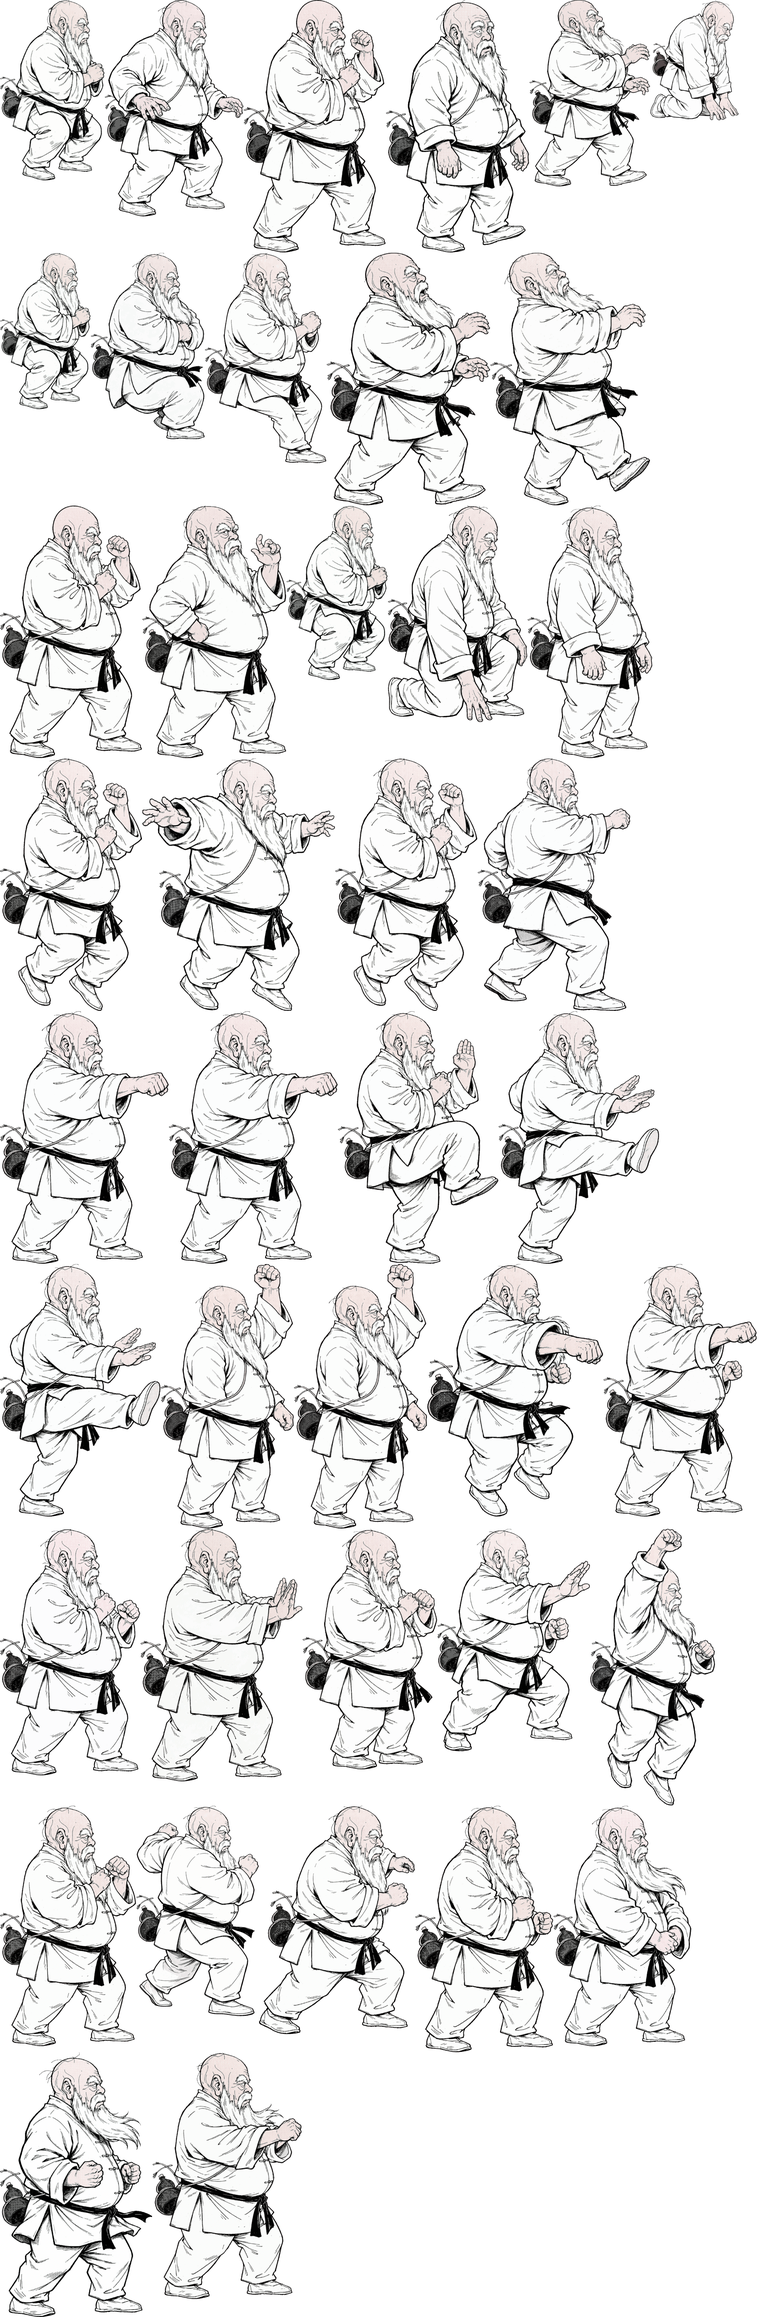
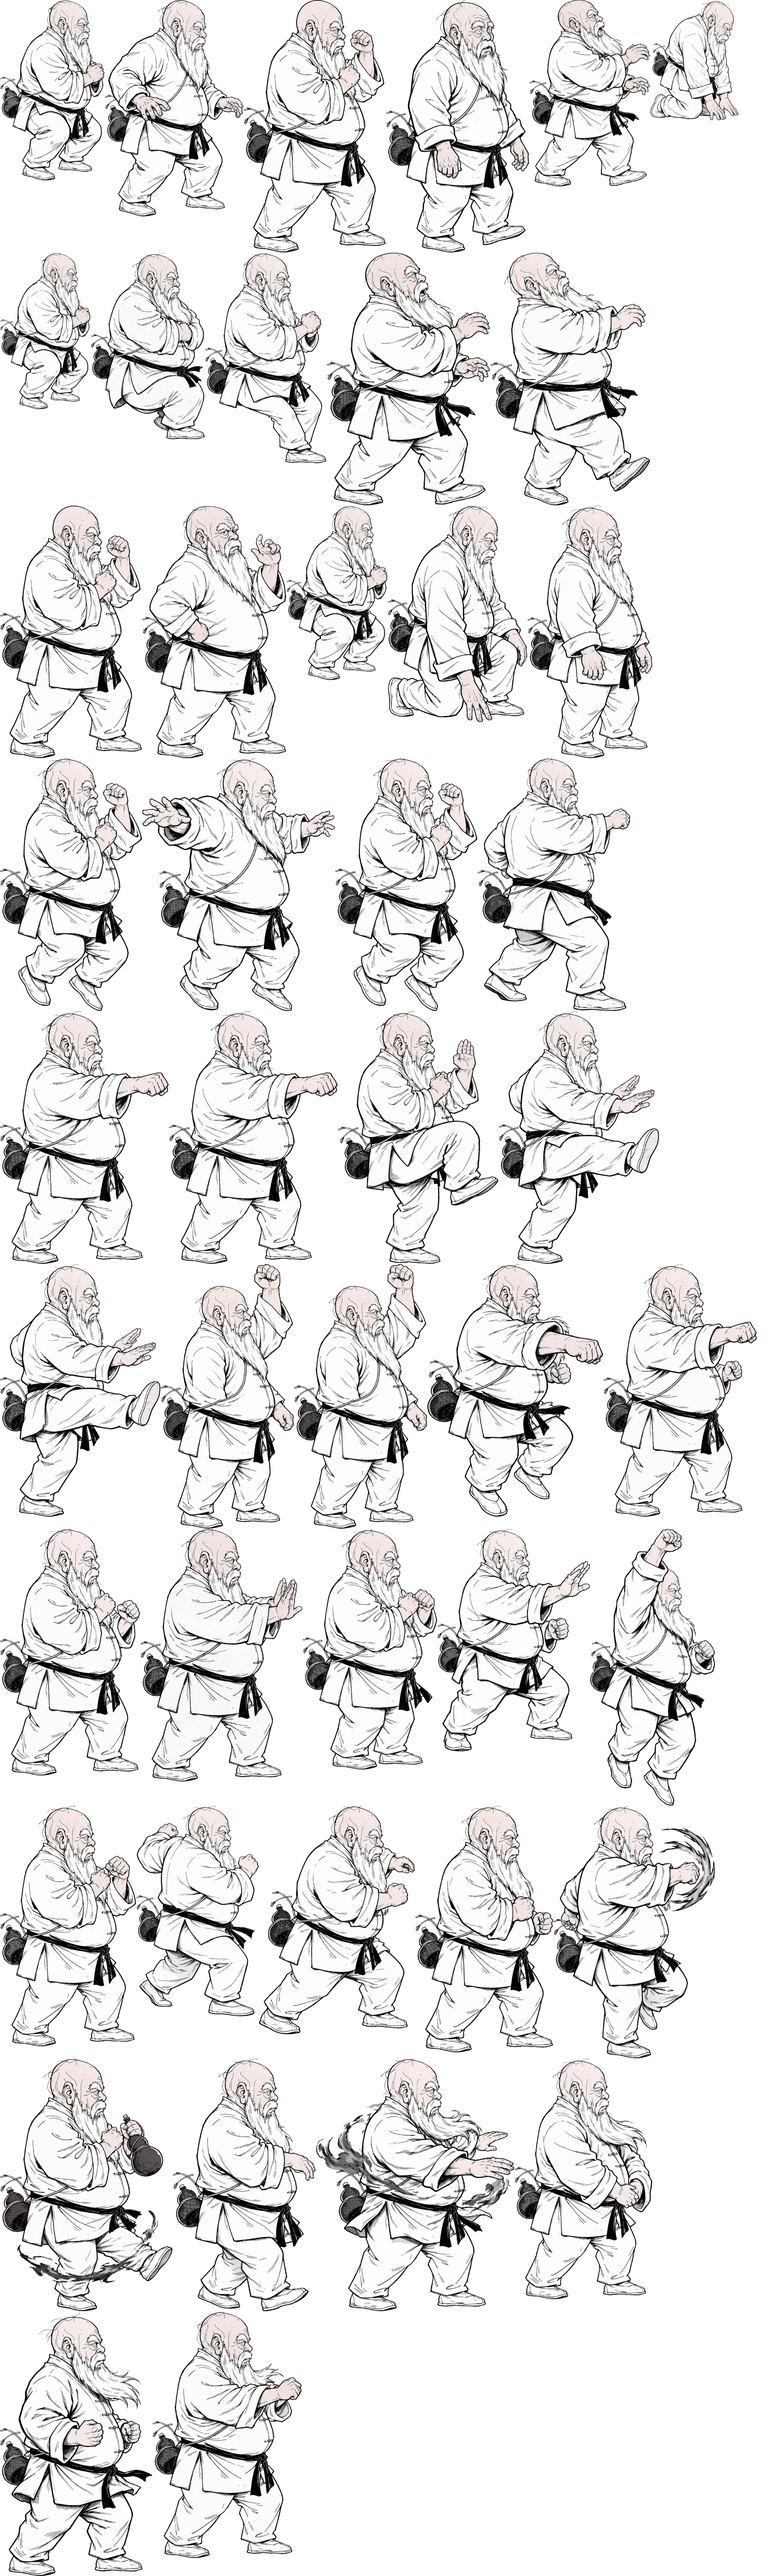
批次 20261027-0757 · [T266] 动作专属化 16/27：椎拳崇 + 鎮元斎 各 4 招
改了什么：
- gen-poses 加 8 条（Kensou：青绿气弹/拳顶气旋/拖气流连打/背后浮龙；
  Chin：旋身出拳/后仰扫腿/摇摇晃晃踏步/紫红酒气爆发）
- build-sheet 加 kensouspecial1-3 + kensousuper、chinspecial1-3 + chinsuper，
  并更新 EXCLUSIVE_OWNER
- poses.ts 加 8 个兜底（key = anim 名）
- kensou.ts / chin.ts 各改 5 处

意外之喜：Kensou 的「神龍撃」AI 真画出了一条完整的青绿色巨龙从背后浮起，
不只是光效。Chin 的「酔歩」画的是"摇摇晃晃地踏出、重心不稳"，动作本身在表达醉态。

怎么验证的：打包两个角色都检查了错误（grep -qi error），失败=0；art:check 通过；
npm run check 995 条全绿

Changed region(s): [[0.0, 0.0, 1.0, 1.0]]

diff --git a/src/data/chars/chin.ts b/src/data/chars/chin.ts
@@ -27,7 +27,7 @@ export const CHIN: CharDef = {
 
     // ---------------------------------------------------------------- 必杀技
     // 回転的空突拳：突进连打
-    '236A': mv('236A', '回転的空突拳', 'punchLight', 46, 'special', [
+    '236A': mv('236A', '回転的空突拳', 'chinspecial1', 46, 'special', [
       hit('h1', { box: { x: 12, y: -58, w: 30, h: 18 }, frames: [8, 11], damage: 30, hitStun: 14, hitstop: 6, meterGain: 5 }),
       hit('h2', { box: { x: 14, y: -58, w: 32, h: 18 }, frames: [15, 18], damage: 28, hitStun: 14, hitstop: 6, meterGain: 5 }),
       hit('h3', {
@@ -42,7 +42,7 @@ export const CHIN: CharDef = {
     ], { input: { motion: '236', buttons: ['A'] }, travel: 64, travelFrames: 24 }),
 
     // 柳燐蓬萊：矮身突进（下段）
-    '214B': mv('214B', '柳燐蓬萊', 'crouchKick', 38, 'special', [
+    '214B': mv('214B', '柳燐蓬萊', 'chinspecial2', 38, 'special', [
       hit('h1', {
         box: { x: 10, y: -24, w: 34, h: 18 },
         frames: [10, 14],
@@ -58,7 +58,7 @@ export const CHIN: CharDef = {
     ], { input: { motion: '214', buttons: ['B'] }, travel: 58, travelFrames: 15 }),
 
     // 酔歩：歪歪扭扭地滑过去（带无敌帧）
-    '623A': mv('623A', '酔歩', 'roll', 32, 'special', [], {
+    '623A': mv('623A', '酔歩', 'chinspecial3', 32, 'special', [], {
       input: { motion: '623', buttons: ['A'] },
       invuln: [{ frames: [1, 18], kind: 'full' }],
       travel: 76,
@@ -67,7 +67,7 @@ export const CHIN: CharDef = {
     }),
 
     // ---------------------------------------------------------------- 超必杀
-    '236236A': mv('236236A', '大酔直全方位', 'special', 64, 'super', [
+    '236236A': mv('236236A', '大酔直全方位', 'chinsuper', 64, 'super', [
       hit('h1', { box: { x: 8, y: -64, w: 36, h: 30 }, frames: [8, 12], damage: 36, hitStun: 16, hitstop: 7, meterGain: 0 }),
       hit('h2', { box: { x: 8, y: -64, w: 36, h: 30 }, frames: [18, 22], damage: 34, hitStun: 16, hitstop: 7, meterGain: 0 }),
       hit('h3', { box: { x: 6, y: -70, w: 38, h: 38 }, frames: [28, 32], damage: 34, hitStun: 16, hitstop: 7, meterGain: 0 }),
@@ -82,7 +82,7 @@ export const CHIN: CharDef = {
       }),
     ], { input: { motion: '236236', buttons: ['A'] }, meterCost: 50, travel: 60, travelFrames: 16 }),
 
-    '236236AC': mv('236236AC', '大酔直全方位 MAX', 'special', 74, 'super', [
+    '236236AC': mv('236236AC', '大酔直全方位 MAX', 'chinsuper', 74, 'super', [
       hit('h1', { box: { x: 6, y: -66, w: 38, h: 34 }, frames: [8, 11], damage: 32, hitStun: 16, hitstop: 6, meterGain: 0 }),
       hit('h2', { box: { x: 6, y: -66, w: 38, h: 34 }, frames: [15, 18], damage: 30, hitStun: 16, hitstop: 6, meterGain: 0 }),
       hit('h3', { box: { x: 6, y: -70, w: 40, h: 40 }, frames: [22, 25], damage: 30, hitStun: 16, hitstop: 6, meterGain: 0 }),

diff --git a/src/render/poses.ts b/src/render/poses.ts
@@ -619,6 +619,15 @@ export const POSE_LIBRARY: Record<string, Pose> = {
   clarkspecial2: { frameDuration: 1, loop: false, exclusive: 'clark', frames: [f({ head: p(-4, -60), neck: p(-4, -52), hip: p(-2, -32), armFront: [p(10, -62), p(14, -78)], armBack: [p(-8, -56), p(-12, -72)] })] },
   clarkspecial3: { frameDuration: 1, loop: false, exclusive: 'clark', frames: [f({ head: p(4, -52), neck: p(4, -44), hip: p(0, -26), armFront: [p(12, -38), p(18, -30)], armBack: [p(-8, -38), p(-14, -30)] })] },
   clarksuper: { frameDuration: 1, loop: false, exclusive: 'clark', frames: [f({ head: p(-2, -66), neck: p(-2, -56), hip: p(0, -38), armFront: [p(8, -78), p(10, -94)], armBack: [p(-8, -78), p(-10, -94)] })] },
+  // Kensou / Chin 专属必杀的兜底（key 与 anim 名一致）
+  kensouspecial1: { frameDuration: 1, loop: false, exclusive: 'kensou', frames: [f({ head: p(5, -68), neck: p(5, -58), hip: p(1, -37), armFront: [p(16, -58), p(30, -56)], armBack: [p(8, -58), p(22, -56)] })] },
+  kensouspecial2: { frameDuration: 1, loop: false, exclusive: 'kensou', frames: [f({ head: p(1, -74), neck: p(1, -64), hip: p(0, -41), armFront: [p(8, -70), p(6, -86)], armBack: [p(-10, -50), p(-14, -42)] })] },
+  kensouspecial3: { frameDuration: 1, loop: false, exclusive: 'kensou', frames: [f({ head: p(6, -68), neck: p(6, -58), hip: p(2, -37), armFront: [p(18, -56), p(30, -54)], armBack: [p(6, -56), p(18, -54)] })] },
+  kensousuper: { frameDuration: 1, loop: false, exclusive: 'kensou', frames: [f({ head: p(0, -70), neck: p(0, -60), hip: p(0, -38), armFront: [p(16, -58), p(32, -56)], armBack: [p(6, -58), p(20, -56)] })] },
+  chinspecial1: { frameDuration: 1, loop: false, exclusive: 'chin', frames: [f({ head: p(6, -56), neck: p(6, -48), hip: p(2, -30), armFront: [p(18, -46), p(28, -42)], armBack: [p(-10, -46), p(-16, -40)] })] },
+  chinspecial2: { frameDuration: 1, loop: false, exclusive: 'chin', frames: [f({ head: p(-6, -50), neck: p(-6, -44), hip: p(-4, -26), legFront: [p(14, -14), p(24, -6)], armBack: [p(-12, -34), p(-18, -28)] })] },
+  chinspecial3: { frameDuration: 1, loop: false, exclusive: 'chin', frames: [f({ head: p(5, -58), neck: p(4, -50), hip: p(-2, -30), armFront: [p(12, -44), p(18, -36)], armBack: [p(-10, -46), p(-14, -40)] })] },
+  chinsuper: { frameDuration: 1, loop: false, exclusive: 'chin', frames: [f({ head: p(3, -58), neck: p(3, -50), hip: p(0, -30), armFront: [p(18, -52), p(30, -48)], armBack: [p(-16, -52), p(-28, -48)] })] },
   /** 升龙系：整个人向上冲，手臂上举 */
   specialUppercut: {
     frameDuration: 1,

diff --git a/src/data/chars/kensou.ts b/src/data/chars/kensou.ts
@@ -22,7 +22,7 @@ export const KENSOU: CharDef = {
 
     // ---------------------------------------------------------------- 必杀技
     // 超球弾：气弹
-    '236A': mv('236A', '超球弾', 'special', 36, 'special', [], {
+    '236A': mv('236A', '超球弾', 'kensouspecial1', 36, 'special', [], {
       input: { motion: '236', buttons: ['A'] },
       projectile: {
         anim: '超球弾',
@@ -42,7 +42,7 @@ export const KENSOU: CharDef = {
     }),
 
     // 龍顎砕：对空升龙
-    '623A': mv('623A', '龍顎砕', 'special', 40, 'special', [
+    '623A': mv('623A', '龍顎砕', 'kensouspecial2', 40, 'special', [
       hit('h1', {
         box: { x: 6, y: -88, w: 28, h: 62 },
         frames: [4, 11],
@@ -56,7 +56,7 @@ export const KENSOU: CharDef = {
     ], { input: { motion: '623', buttons: ['A'] }, invuln: [{ frames: [1, 5], kind: 'full' }] }),
 
     // 龍連牙：三段连突
-    '214A': mv('214A', '龍連牙', 'punchLight', 44, 'special', [
+    '214A': mv('214A', '龍連牙', 'kensouspecial3', 44, 'special', [
       hit('h1', { box: { x: 12, y: -64, w: 30, h: 16 }, frames: [9, 12], damage: 32, hitStun: 15, hitstop: 6, meterGain: 5 }),
       hit('h2', { box: { x: 14, y: -62, w: 32, h: 16 }, frames: [16, 19], damage: 30, hitStun: 15, hitstop: 6, meterGain: 5 }),
       hit('h3', {
@@ -71,7 +71,7 @@ export const KENSOU: CharDef = {
     ], { input: { motion: '214', buttons: ['A'] }, travel: 52, travelFrames: 20 }),
 
     // ---------------------------------------------------------------- 超必杀
-    '236236A': mv('236236A', '神龍撃', 'special', 60, 'super', [], {
+    '236236A': mv('236236A', '神龍撃', 'kensousuper', 60, 'super', [], {
       input: { motion: '236236', buttons: ['A'] },
       meterCost: 50,
       projectile: {
@@ -92,7 +92,7 @@ export const KENSOU: CharDef = {
       },
     }),
 
-    '236236AC': mv('236236AC', '神龍天舞脚', 'special', 72, 'super', [
+    '236236AC': mv('236236AC', '神龍天舞脚', 'kensousuper', 72, 'super', [
       hit('h1', { box: { x: 10, y: -78, w: 36, h: 44 }, frames: [8, 12], damage: 38, hitStun: 18, hitstop: 8, meterGain: 0 }),
       hit('h2', { box: { x: 10, y: -80, w: 38, h: 50 }, frames: [18, 22], damage: 36, hitStun: 18, hitstop: 8, meterGain: 0 }),
       hit('h3', { box: { x: 10, y: -82, w: 38, h: 52 }, frames: [28, 32], damage: 36, hitStun: 18, hitstop: 8, meterGain: 0 }),

diff --git a/docs/MOVE-PER-CHAR.md b/docs/MOVE-PER-CHAR.md
@@ -75,8 +75,8 @@ mv('236A', '百拾四式・荒咬', 'punchLight', 26, 'special', [...])
 | 11 | ラルフ ralf | バルカンパンチ / ラリアット / ダイビングパンチ / ギャラクティカファントム | **done** |
 | 12 | クラーク clark | マウントタックル / フランケンシュタイナー / ローリングクレイドル / アルティメットアルゼンチン | **done** |
 | 13 | アテナ athena | サイコボール / サイコソード / フェニックスアロー / シャイニングクリスタルビット | **done** |
-| 14 | 椎拳崇 kensou | 超球弾 / 龍爪撃 / 仙氣発勁 / 醒眼仙朧撃 | - |
-| 15 | 鎮元斎 chin | 気孔掌 / 大車輪 / 酔操牙 / 酔杯殺 | - |
+| 14 | 椎拳崇 kensou | 超球弾 / 龍顎砕 / 龍連牙 / 神龍撃 | **done** |
+| 15 | 鎮元斎 chin | 回転的空突拳 / 柳燐蓬萊 / 酔歩 / 大酔直全方位 | **done** |
 | 16 | キム kim | 半月斬 / 飛燕斬 / 昇天脚 / 鳳凰脚 | - |
 | 17 | チョイ choi | 二撃 / 竜巻撃 / 空中二撃 / 鳳凰脚 | - |
 | 18 | チン chang | 鉄球大回転 / 鉄球大暴走 / 鉄球大圧殺 / 鉄球大粉砕 | - |
@@ -90,7 +90,7 @@ mv('236A', '百拾四式・荒咬', 'punchLight', 26, 'special', [...])
 | 26 | 暴走庵 orochi_iori | 百八式・闇払い / 百式・鬼焼き / 屑風 / 禁千弐百拾八式・八稚女 | - |
 | 27 | 覚醒レオナ orochi_leona | グランドセイバー / ムーンストライカー / Xキャリバー / リボルブブラスター | - |
 
-**完成度：14 / 27**
+**完成度：16 / 27**
 
 ## 六、已完成记录
 
@@ -288,6 +288,30 @@ benispecial1: {
 
 > Clark 的 5 个必杀**全是投技**（数据里 `throwStart`），所以动作全部围绕"抓、摔、举"，
 > 和 Ralf 那种"拳拳到肉"正好是一对对照。
+
+### 15. 椎拳崇 Kensou（done）
+
+中国拳法、青绿色气：
+
+| 招式 | 专属动画 | 出图效果 |
+|---|---|---|
+| 超球弾（236A） | `kensouspecial1` | 掌心飞出**青绿气弹** |
+| 龍顎砕（623A） | `kensouspecial2` | 跃起上打、拳顶气旋 |
+| 龍連牙（214A） | `kensouspecial3` | 双拳连打、拖青绿气流 |
+| 神龍撃（超必杀） | `kensousuper` | **背后浮起一条完整的青绿巨龙** |
+
+> 神龍撃这张是意外之喜——AI 真把"龙形气劲"画出来了，不只是特效光。
+
+### 16. 鎮元斎 Chin（done）
+
+醉拳、酒壶、紫红色酒气：
+
+| 招式 | 专属动画 | 出图效果 |
+|---|---|---|
+| 回転的空突拳（236A） | `chinspecial1` | 旋身出拳、拳周紫红气流 |
+| 柳燐蓬萊（214B） | `chinspecial2` | 后仰扫腿、腿拖酒气 |
+| 酔歩（623A） | `chinspecial3` | **摇摇晃晃地踏出**、重心不稳 |
+| 大酔直全方位（超必杀） | `chinsuper` | 旋身、**紫红酒气全身喷出** |
 
 ## 七、执行约定
 

diff --git a/.continue/doing/59bce7.md b/.continue/doing/59bce7.md
@@ -1,0 +1,14 @@
+# 队列 · 会话 59bce766a368447cf9cf15c7e36322c83
+
+> 状态：执行中
+> 创建：2026-10-27
+> 批次：20261027-0757
+
+> 本批目标：动作专属化第 15、16 个角色（椎拳崇、鎮元斎）。
+
+- [x] [T266] Kensou + Chin 各 4 个必杀专属动作（16/27）→ 出图 + 数据 + 打包验证
+  - 做了什么：①`gen-poses.mjs` 加 8 条（Kensou：青绿气弹/拳顶气旋/拖气流连打/背后浮龙；Chin：旋身出拳/后仰扫腿/摇摇晃晃踏步/紫红酒气爆发）；②`build-sheet.mjs` 加 `kensouspecial1-3`+`kensousuper`、`chinspecial1-3`+`chinsuper`，并更新 `EXCLUSIVE_OWNER`；③`poses.ts` 加 8 个兜底（key = anim 名）；④`kensou.ts`/`chin.ts` 各改 5 处
+  - **意外之喜**：Kensou 的「神龍撃」AI 真画出了**一条完整的青绿色巨龙**从背后浮起，不只是光效
+  - **Chin 的醉拳特色**：`酔歩` 那张画的是"摇摇晃晃地踏出、重心不稳"，动作本身在表达醉态
+  - 验证：打包两个角色都检查了错误（`grep -qi error`），失败=0；`art:check` 通过；`npm run check` **995 条全绿**
+  - 批次：20261027-0757

diff --git a/.continue/TASKS.md b/.continue/TASKS.md
@@ -284,3 +284,4 @@
 - [x] T263 角色动作专属化 10/27：獠（橙黄气）+ Robert（青白气）各 4 招
 - [x] T264 角色动作专属化 12/27：Yuri（粉白气）+ Leona（蓝白光刃）各 4 招
 - [x] T265 角色动作专属化 14/27：Ralf（橙红冲击）+ Clark（纯投技）各 4 招
+- [x] T266 角色动作专属化 16/27：椎拳崇（青绿气+巨龙）+ 鎮元斎（醉拳酒气）各 4 招
